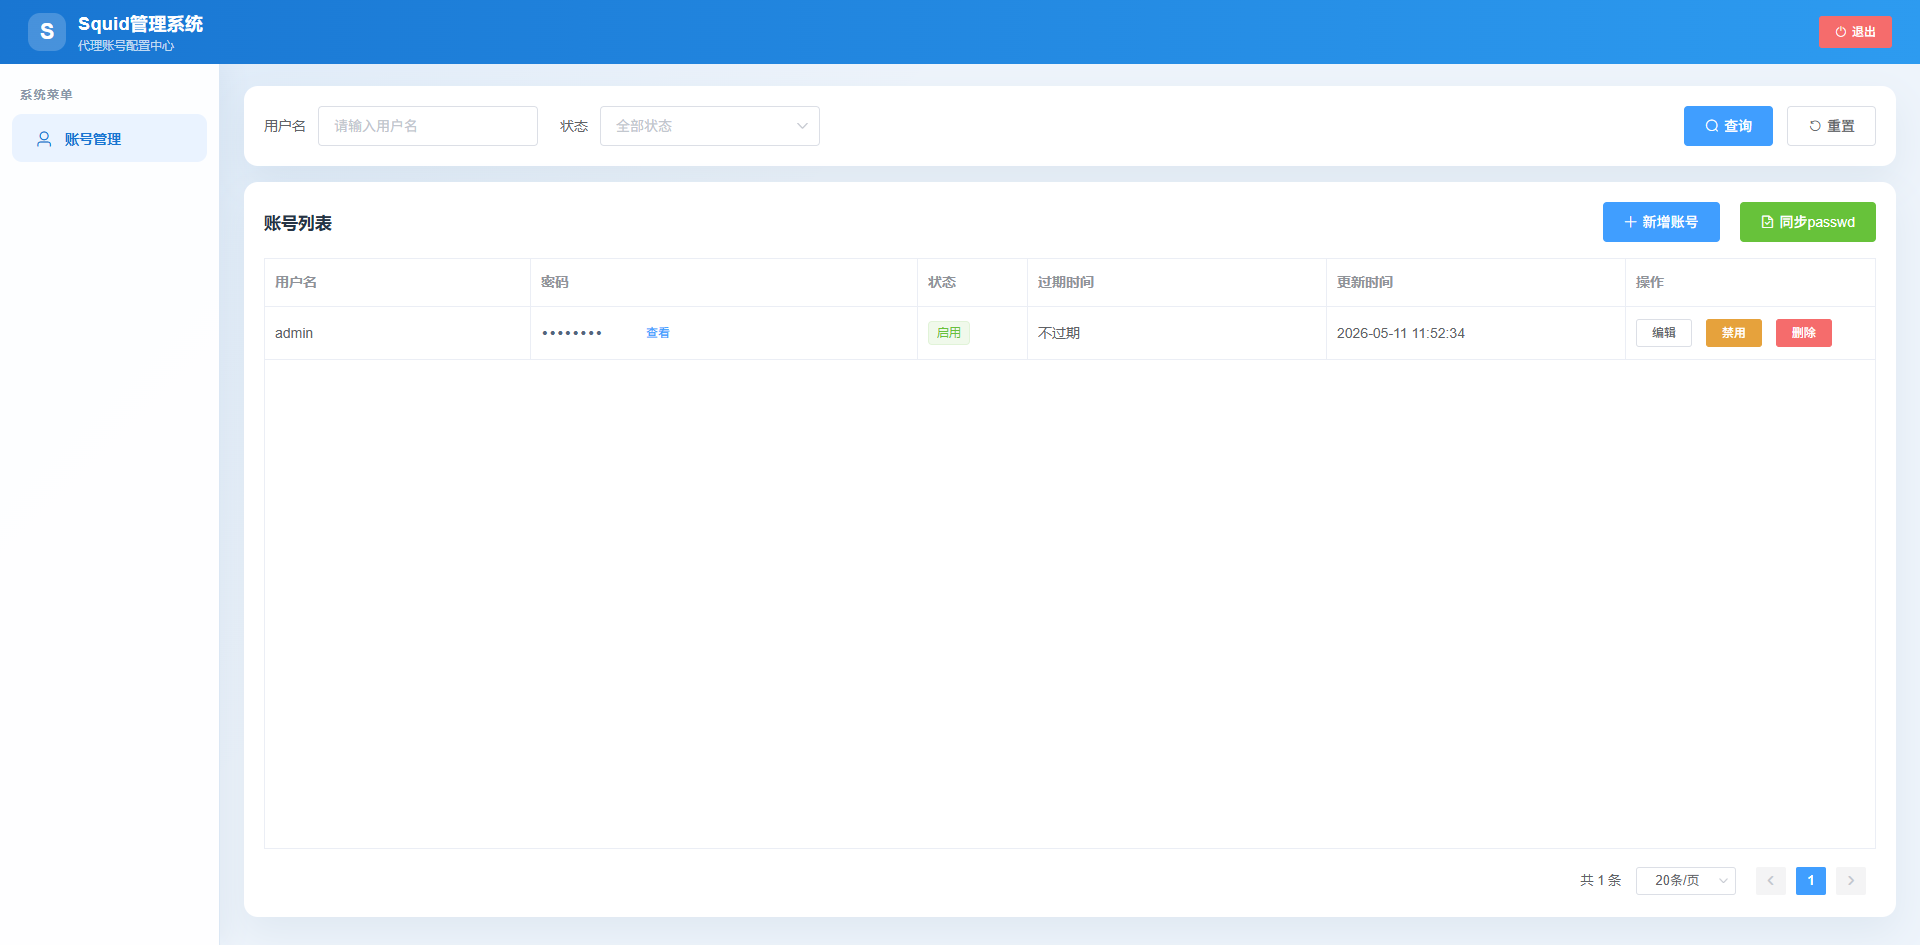
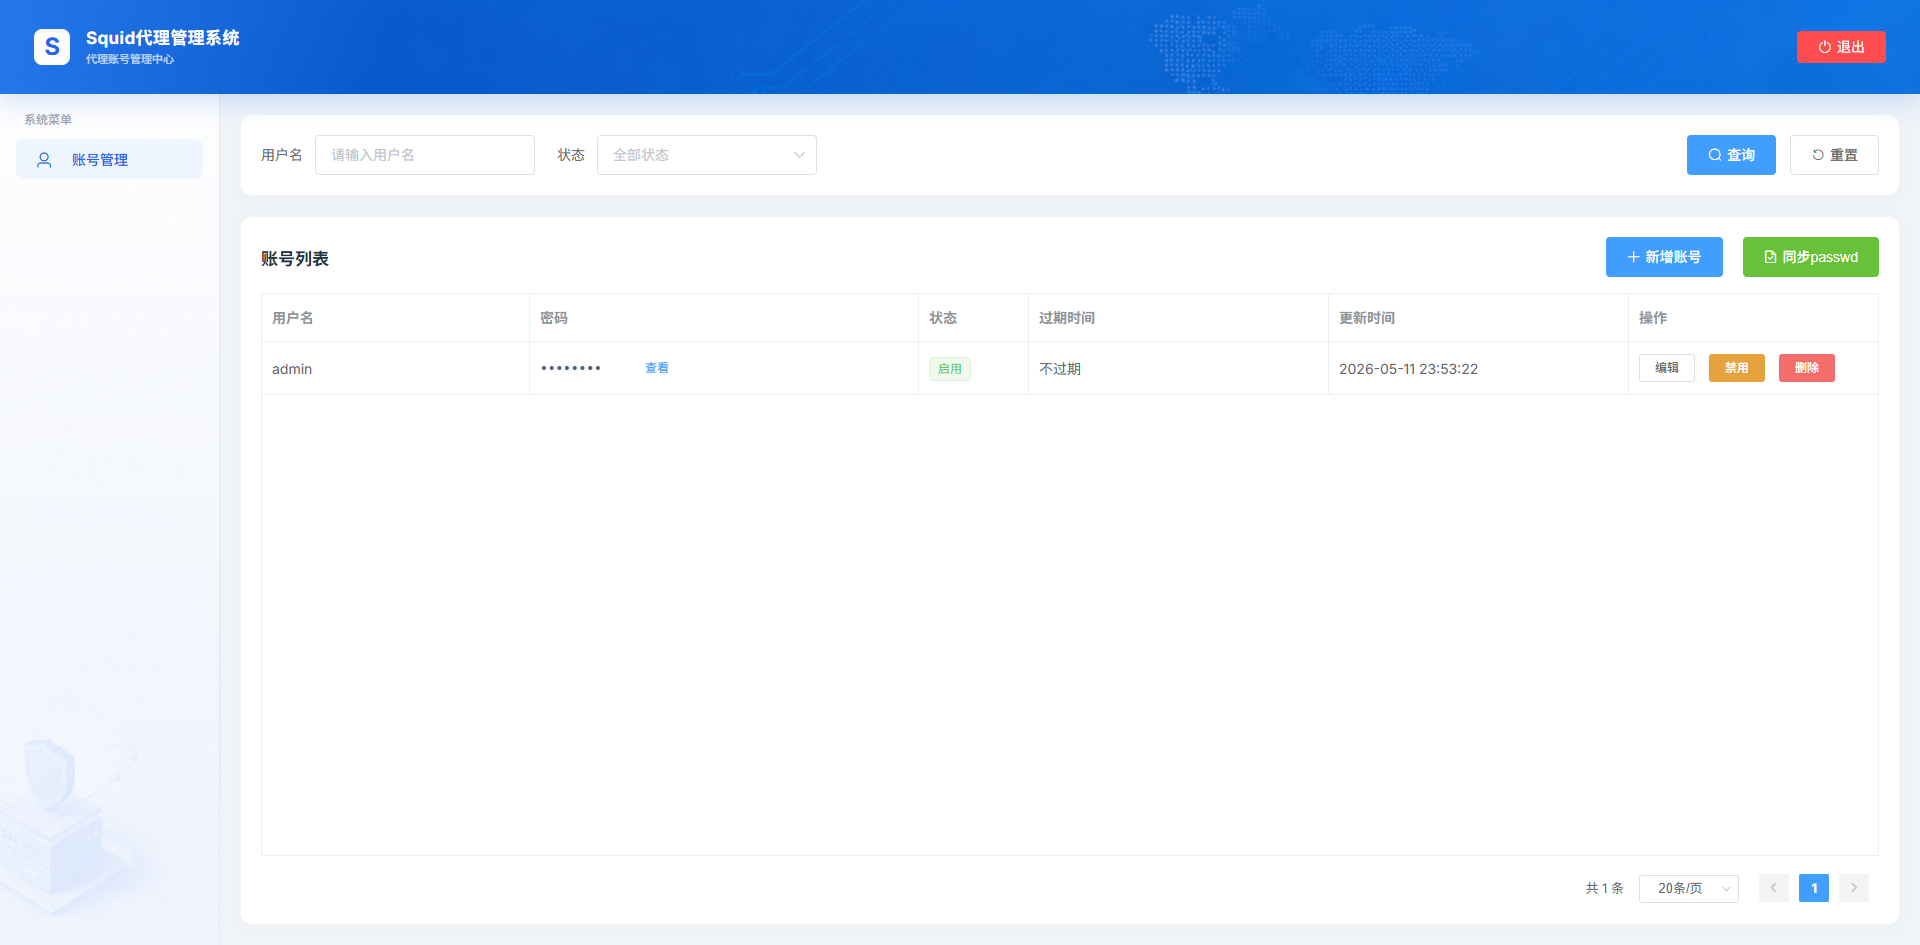
perf:优化管理页面

diff --git a/src/app/interfaces/http/static/css/accounts.css b/src/app/interfaces/http/static/css/accounts.css
@@ -1,56 +1,81 @@
+html,
+body,
+#account-app {
+  width: 100%;
+  height: 100%;
+  overflow: hidden;
+}
+
 body {
   margin: 0;
-  min-height: 100vh;
-  font-family: "Helvetica Neue", Helvetica, "PingFang SC", "Hiragino Sans GB", "Microsoft YaHei", Arial, sans-serif;
-  color: #263445;
-  background: #eef4fb;
+  font-family: "Inter", -apple-system, BlinkMacSystemFont, "Segoe UI", Roboto, "Helvetica Neue", Arial, sans-serif;
+  color: #374151;
+  background: #f0f4f8;
 }
 
 .admin-page {
-  background: #eef4fb;
+  background: #f0f4f8;
 }
 
 .admin-shell {
-  min-height: 100vh;
+  height: 100vh;
+  overflow: hidden;
 }
 
 .admin-header {
+  position: relative;
   display: flex;
   align-items: center;
   justify-content: space-between;
-  padding: 0 28px;
-  background: linear-gradient(90deg, #1976d2, #2d9bf0);
+  overflow: hidden;
+  padding: 0 34px;
+  background: #0a66d4 url("/static/images/admin-top-background.png") center center / cover no-repeat;
   color: #fff;
-  box-shadow: 0 6px 22px rgba(27, 105, 196, 0.22);
+  box-shadow: 0 10px 24px rgba(11, 99, 213, 0.16);
+  z-index: 100;
+}
+
+.admin-header::after {
+  display: none;
+}
+
+.admin-header > * {
+  position: relative;
+  z-index: 1;
 }
 
 .brand-block {
   display: flex;
   align-items: center;
-  gap: 12px;
+  gap: 16px;
 }
 
 .brand-mark {
-  width: 38px;
-  height: 38px;
+  width: 36px;
+  height: 36px;
   display: grid;
   place-items: center;
-  border-radius: 12px;
-  background: rgba(255, 255, 255, 0.2);
-  font-size: 22px;
+  border-radius: 8px;
+  background: #fff;
+  color: #2563eb;
+  font-size: 24px;
   font-weight: 700;
+  box-shadow: inset 0 2px 4px rgba(15, 23, 42, 0.06);
 }
 
 .brand-title {
-  font-size: 18px;
+  color: #fff;
+  font-size: 17px;
   font-weight: 700;
+  line-height: 1.2;
   letter-spacing: 0.02em;
 }
 
 .brand-subtitle {
   margin-top: 2px;
-  color: rgba(255, 255, 255, 0.72);
-  font-size: 12px;
+  color: #dbeafe;
+  font-size: 11px;
+  opacity: 0.9;
 }
 
 .header-actions {
@@ -58,65 +83,98 @@ body {
   gap: 10px;
 }
 
+.header-actions .el-button--danger {
+  padding: 8px 20px;
+  border-color: #ff4d4f;
+  border-radius: 4px;
+  background: #ff4d4f;
+  font-size: 14px;
+  font-weight: 400;
+}
+
+.header-actions .el-button--danger:hover,
+.header-actions .el-button--danger:focus {
+  border-color: #ef4444;
+  background: #ef4444;
+}
+
 .admin-body {
   flex: 1;
   overflow: hidden;
-  min-height: calc(100vh - 64px);
-  height: calc(100vh - 64px);
-  background:
-    linear-gradient(135deg, rgba(25, 118, 210, 0.08), transparent 34%),
-    #eef4fb;
+  min-height: calc(100vh - 94px);
+  height: calc(100vh - 94px);
+  background: #f0f4f8;
 }
 
 .admin-aside {
-  border-right: 1px solid #dbe7f4;
-  background: rgba(255, 255, 255, 0.94);
-  box-shadow: 8px 0 24px rgba(42, 87, 132, 0.06);
+  position: relative;
+  display: flex;
+  flex-direction: column;
+  flex-shrink: 0;
+  border-right: 1px solid #e5e7eb;
+  background:
+    url("/static/images/admin-side-background.png") center top / cover no-repeat,
+    #fff;
 }
 
 .aside-title {
-  padding: 22px 20px 12px;
-  color: #8b98a9;
+  padding: 16px 24px 12px;
+  color: #9ca3af;
   font-size: 12px;
-  font-weight: 700;
-  letter-spacing: 0.12em;
+  font-weight: 500;
 }
 
 .admin-menu {
+  padding: 0 16px;
   border-right: 0;
   background: transparent;
 }
 
-.admin-menu .el-menu-item {
-  height: 48px;
-  margin: 0 12px 8px;
-  border-radius: 10px;
-  color: #53657d;
-  line-height: 48px;
+.admin-menu.el-menu {
+  background-color: transparent;
 }
 
+.admin-menu .el-menu-item {
+  height: 40px;
+  margin: 0;
+  padding: 0 16px !important;
+  border-radius: 8px;
+  color: #4b5563;
+  font-size: 14px;
+  font-weight: 500;
+  line-height: 40px;
+}
+
+.admin-menu .el-menu-item i {
+  margin-right: 12px;
+  color: inherit;
+  font-size: 18px;
+}
+
+.admin-menu .el-menu-item:hover,
 .admin-menu .el-menu-item.is-active {
-  color: #1976d2;
-  background: #eaf3ff;
-  font-weight: 700;
+  color: #2563eb;
+  background: #eff6ff;
 }
 
 .admin-main {
   display: flex;
   flex-direction: column;
-  gap: 16px;
-  padding: 22px 24px 28px;
+  gap: 20px;
+  padding: 20px;
   min-width: 0;
   min-height: 0;
   overflow: hidden;
+  background: #f0f4f8;
 }
 
 .search-card,
 .table-card {
-  border: 0;
-  border-radius: 14px;
-  box-shadow: 0 16px 38px rgba(42, 87, 132, 0.08);
+  border: 1px solid #f3f4f6;
+  border-radius: 12px;
+  box-shadow: 0 2px 10px rgba(0, 0, 0, 0.02);
 }
+
 
 .search-card {
   flex: 0 0 auto;
@@ -211,7 +269,7 @@ body {
   .admin-header { height: auto !important; flex-direction: column; align-items: stretch; gap: 12px; padding: 14px; }
   .header-actions { flex-wrap: wrap; }
   .admin-body { flex-direction: column; min-height: calc(100vh - 96px); height: auto; overflow: visible; }
-  .admin-aside { width: 100% !important; border-right: 0; border-bottom: 1px solid #dbe7f4; }
+  .admin-aside { width: 100% !important; border-right: 0; border-bottom: 1px solid #dbe7f4; background: #fff; }
   .aside-title { padding: 12px 14px 6px; }
   .admin-menu { display: flex; padding: 0 8px 8px; }
   .admin-menu .el-menu-item { flex: 1; margin: 0; }

diff --git a/src/app/interfaces/http/static/accounts.html b/src/app/interfaces/http/static/accounts.html
@@ -3,20 +3,23 @@
 <head>
   <meta charset="utf-8">
   <meta name="viewport" content="width=device-width, initial-scale=1">
-  <title>Squid管理系统 账号管理</title>
+  <title>Squid代理管理系统 账号管理</title>
   <link rel="stylesheet" href="https://unpkg.com/element-ui@2.15.14/lib/theme-chalk/index.css">
+  <link rel="preconnect" href="https://fonts.googleapis.com">
+  <link rel="preconnect" href="https://fonts.gstatic.com" crossorigin>
+  <link href="https://fonts.googleapis.com/css2?family=Inter:wght@400;500;600;700&display=swap" rel="stylesheet">
   <link rel="stylesheet" href="/static/css/common.css">
   <link rel="stylesheet" href="/static/css/accounts.css">
 </head>
 <body class="admin-page">
   <div id="account-app" v-cloak>
     <el-container class="admin-shell">
-      <el-header height="64px" class="admin-header">
+      <el-header height="94px" class="admin-header">
         <div class="brand-block">
           <div class="brand-mark">S</div>
           <div>
-            <div class="brand-title">Squid管理系统</div>
-            <div class="brand-subtitle">代理账号配置中心</div>
+            <div class="brand-title">Squid代理管理系统</div>
+            <div class="brand-subtitle">代理账号管理中心</div>
           </div>
         </div>
         <div class="header-actions">

diff --git a/src/app/interfaces/http/fastapi_app.py b/src/app/interfaces/http/fastapi_app.py
@@ -45,7 +45,7 @@ async def lifespan(app: FastAPI):
 
 def create_app() -> FastAPI:
     settings = get_settings()
-    app = FastAPI(title="Squid管理系统", version=settings.app_version, lifespan=lifespan)
+    app = FastAPI(title="Squid代理管理系统", version=settings.app_version, lifespan=lifespan)
 
     @app.middleware("http")
     async def require_login(request: Request, call_next):

diff --git a/src/app/interfaces/http/routers/health.py b/src/app/interfaces/http/routers/health.py
@@ -12,7 +12,7 @@ router = APIRouter(prefix="/health", tags=["system"])
 def health_check() -> dict[str, str]:
     return {
         "status": "UP",
-        "service": "Squid管理系统",
+        "service": "Squid代理管理系统",
         "version": get_settings().app_version,
         "timestamp": datetime.now().isoformat(),
     }

diff --git a/src/app/main.py b/src/app/main.py
@@ -3,7 +3,7 @@ from src.app.bootstrap import bootstrap
 
 def main() -> None:
     bootstrap()
-    print("Squid管理系统 bootstrap completed")
+    print("Squid代理管理系统 bootstrap completed")
 
 
 if __name__ == "__main__":